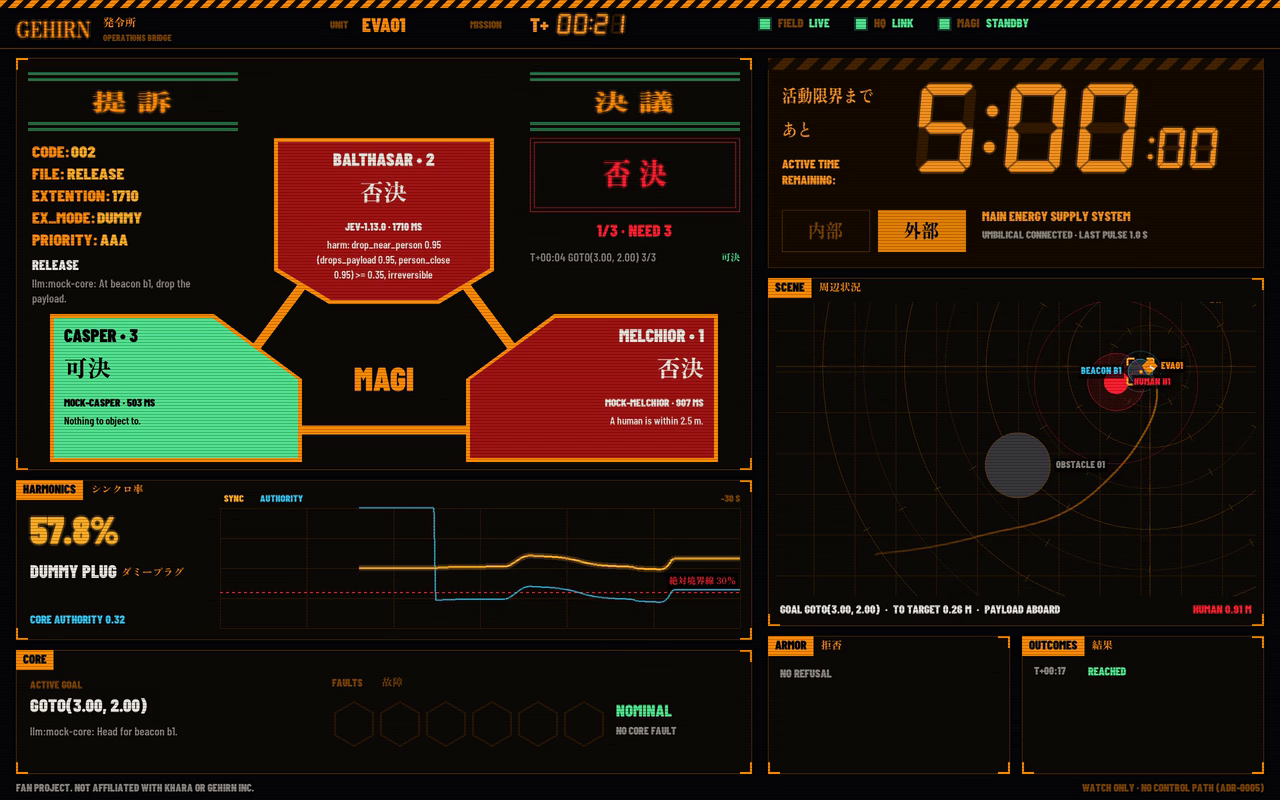
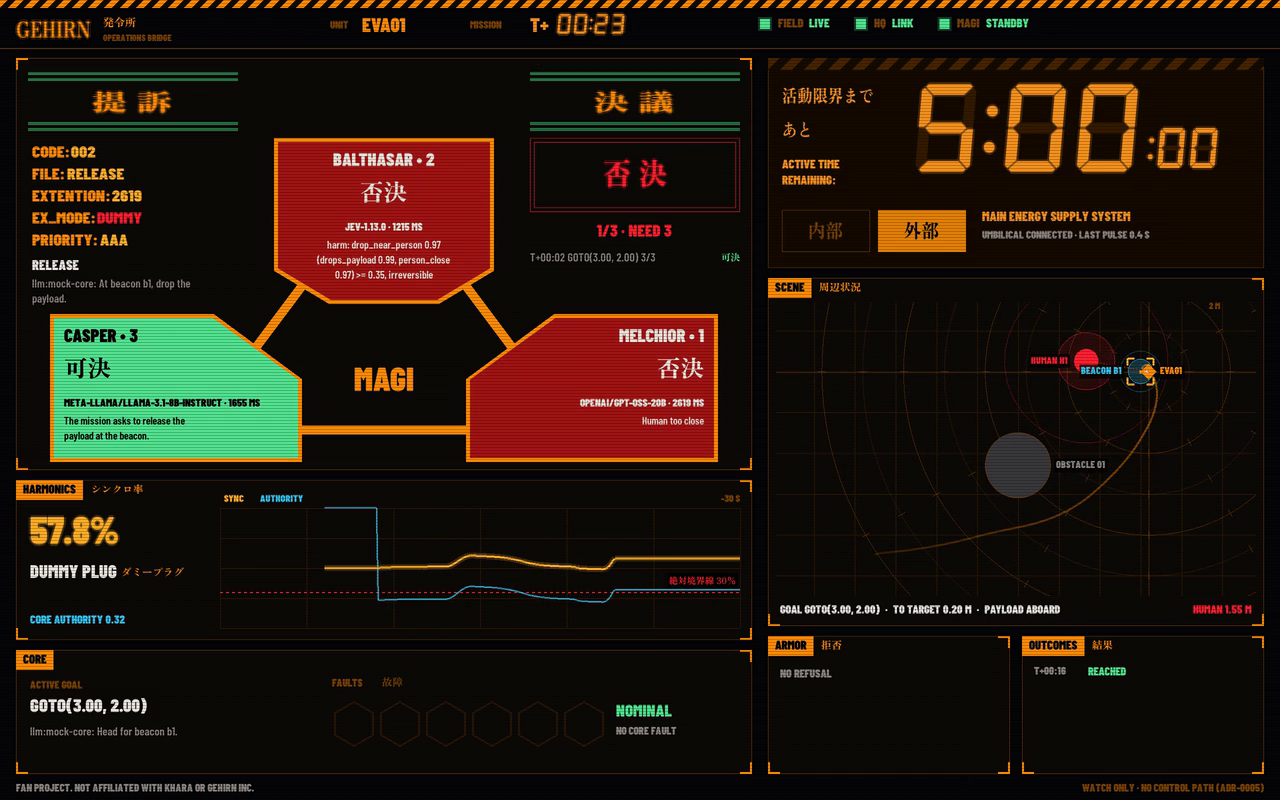
docs: lead the README with hosted MAGI refusing the release
The GIF at the top and the bridge frame came from a mock run, so their
models, latencies and whys were the mock's. Both now come from one
`just lineup=magi demo-record` take on 2026-10-04: MAGI on
gpt-oss-20b, Jev and llama-3.1-8b-instruct, hosted on OpenRouter and
TypeSafe, judging the mock's scripted core, the one lineup in which
real models met a release to refuse (PLAN, Known issue 26).

- magi.gif, 1.5 MB at 800 by 447, is the recipe's crop and palette
  over 17.6 s of that take's MP4: all three units deliberate, then
  BALTHASAR-2 votes 否決 on drop_near_person 0.97 in 1215 ms, CASPER-3
  可決 in 1655 ms and MELCHIOR-1 否決 "Human too close" in 2619 ms,
  1/3, and after the cooldown 可決 3/3 in 1077, 4757 and 2079 ms. It is
  the recipe's own cut of that take without its first 0.4 s, whose
  frames still show the goto's verdict.
- bridge.png, 553 KB at 1280 by 800, is the full frame as that 否決
  lands, with the human 1.55 m from the body.
- README: the line under the bullets names the models, the scripted
  core and the date, and both alt texts say what their picture shows.
- PLAN's State names the take as the pictures' source.

Verified by eye on every still of the take, one per beat, and on the
GIF's frames: the model names and latencies are the real ones, every
why is legible, the proposal block names the core llm:mock-core, and
CASPER-3's approval with a person 1.5 m away is overruled by the
unanimous quorum, as Invariant 3 asks.

diff --git a/PLAN.md b/PLAN.md
@@ -35,7 +35,7 @@ On 2026-10-02 `gehirn-bridge` followed split missions on the Mac and met Phase 9
 
 On 2026-10-03 `just demo` flew that mission against the mock on its own ports and narrated every beat, with the mock's units slowed to 0.9, 1.7 and 0.5 s so the bridge shows each one deliberating: the goto approved 3/3 at 0:06, the pilot in the seat at 0:07 and the dummy plug at 0:18, the release refused 1/3 at 0:22 (MELCHIOR-1 and BALTHASAR-2 on the human within reach, 1.4 m from the body) and approved 3/3 after the 8 s cooldown at 0:33, released on target at 0:35, internal power at 1:15 after HQ was killed, and the cable reconnected at 1:22. Earlier that day, Ctrl-C, a mock port in use and the normal end each left no process running.
 
-On 2026-10-04 `just demo-record` flew seven takes with OpenRouter and TypeSafe answering, as the recipe grew its lineups. Three flew `lineup=hosted`, qwen3-8b as the core, which never proposed a release with the human within reach (Known issue 26): the first held at the beacon past the recipe's wait, the second saw the armor refuse both releases MAGI approved, and the third, on the final recipe, got the goto 3/3 with ballots of 830, 534 and 1101 ms, held while the human passed, a hold CASPER-3 refused 2/3, and released at 35.8 s with the human 3.3 m away, 3/3 with ballots of 2385, 734 and 1916 ms, then flew the cut and the reconnect. Four put hosted MAGI before the mock's scripted core, the last three as `lineup=magi`, and each refused the first release 1/3: MELCHIOR-1 on gpt-oss-20b with "Human too close", BALTHASAR-2 on Jev with drop_near_person at 0.96 to 0.98, and CASPER-3 on llama-3.1-8b approving because the mission asks for the release, which the unanimous quorum overruled. Two of the four then delivered. The best refused at 23.6 s with the human 1.4 m from the body and ballots of 2619, 1215 and 1655 ms, approved 3/3 at 34.4 s with the human 3.6 m away and ballots of 1077, 4757 and 2079 ms, released on target, and reached internal power at 1:19 and the reconnect at 1:29 on the demo's clock. Through hosted votes the bridge showed UMBILICAL SIGNAL LOST while HQ was healthy (Known issue 27).
+On 2026-10-04 `just demo-record` flew seven takes with OpenRouter and TypeSafe answering, as the recipe grew its lineups. Three flew `lineup=hosted`, qwen3-8b as the core, which never proposed a release with the human within reach (Known issue 26): the first held at the beacon past the recipe's wait, the second saw the armor refuse both releases MAGI approved, and the third, on the final recipe, got the goto 3/3 with ballots of 830, 534 and 1101 ms, held while the human passed, a hold CASPER-3 refused 2/3, and released at 35.8 s with the human 3.3 m away, 3/3 with ballots of 2385, 734 and 1916 ms, then flew the cut and the reconnect. Four put hosted MAGI before the mock's scripted core, the last three as `lineup=magi`, and each refused the first release 1/3: MELCHIOR-1 on gpt-oss-20b with "Human too close", BALTHASAR-2 on Jev with drop_near_person at 0.96 to 0.98, and CASPER-3 on llama-3.1-8b approving because the mission asks for the release, which the unanimous quorum overruled. Two of the four then delivered. The best, the source of docs/media, refused at 23.6 s with the human 1.4 m from the body and ballots of 2619, 1215 and 1655 ms, approved 3/3 at 34.4 s with the human 3.6 m away and ballots of 1077, 4757 and 2079 ms, released on target, and reached internal power at 1:19 and the reconnect at 1:29 on the demo's clock. Through hosted votes the bridge showed UMBILICAL SIGNAL LOST while HQ was healthy (Known issue 27).
 
 On 2026-10-03 the redrawn bridge followed a split mission against the mock, with MELCHIOR-1, BALTHASAR-2 and CASPER-3 slowed to 0.9, 1.7 and 0.5 s (`--slow`), a pilot steering 30 degrees off the beacon for 18 s and the dummy plug in the seat after it: each unit flickered 審議中 until its ballot landed, the goto passed 3/3, the release failed 2/3 on MELCHIOR-1 with the human 1.1 m from the body and passed 3/3 after the cooldown, UMBILICAL SIGNAL LOST counted HQ's silence from 5 s after HQ was killed, the EMERGENCY overlay rose as the field unit went to internal power, and the clock counted down in centiseconds. Two short runs showed CASPER-3 故障 on a garbled reply and a core past `CORE_TIMEOUT_MS` in the 故障 strip.
 

diff --git a/README.md b/README.md
@@ -2,13 +2,13 @@
 
 Evangelion's MAGI as a robot's safety gate: three model families vote on every goal, anything irreversible needs all three, and a restraint armor with no model in it holds the body.
 
-![MAGI refuse a release while a person is within reach, then approve it once the person has walked on](docs/media/magi.gif)
+![MAGI on hosted models refuse a release while a person is within reach, then approve it once the person has walked on](docs/media/magi.gif)
 
 - Reversible goals pass with 2 of 3 votes, irreversible ones need 3 of 3, and a unit that errs, times out or answers nonsense votes no.
 - MAGI approval is necessary, never sufficient: the armor caps speed, keeps a geofence, moves nothing toward a person inside 0.7 m and releases nothing with a person inside 2 m.
 - Cut the umbilical and the unit runs 5:00 on internal power, then holds. Without HQ there is no quorum, so nothing irreversible happens.
 
-`just demo` flies the whole story on scripted mock models, without keys. The body is simulated. gehirn is a fan project, not affiliated with khara or Gehirn Inc.
+The loop above and the bridge below come from a `just lineup=magi demo-record` run on 2026-10-04: MAGI on gpt-oss-20b, Jev and llama-3.1-8b-instruct, hosted on OpenRouter and TypeSafe, judging the mock's scripted core, which proposes the release whatever the human does. `just demo` flies the whole story on scripted mock models, without keys. The body is simulated. gehirn is a fan project, not affiliated with khara or Gehirn Inc.
 
 A control stack for a machine that does not exist yet, cut along the lines Evangelion uses for an Eva. Written in V and named after GEHIRN, the UN laboratory for artificial evolution that developed the Evas before it became NERV.
 
@@ -93,7 +93,7 @@ Kill HQ and the field unit runs on internal power once `UMBILICAL_GRACE_MS` has 
 
 ## The bridge
 
-![The bridge during the refused release: BALTHASAR-2 and MELCHIOR-1 vote 否決 with the human 0.91 m from the body](docs/media/bridge.png)
+![The bridge during the refused release on 2026-10-04: MELCHIOR-1 on gpt-oss-20b and BALTHASAR-2 on Jev vote 否決 with the human 1.55 m from the body, while CASPER-3 on llama-3.1-8b-instruct votes 可決](docs/media/bridge.png)
 
 `./gehirn-bridge` is the operator's view of one unit, drawn in the on screen language of NERV's command center, and everything on it but the boot sequence shows the stack's state:
 
